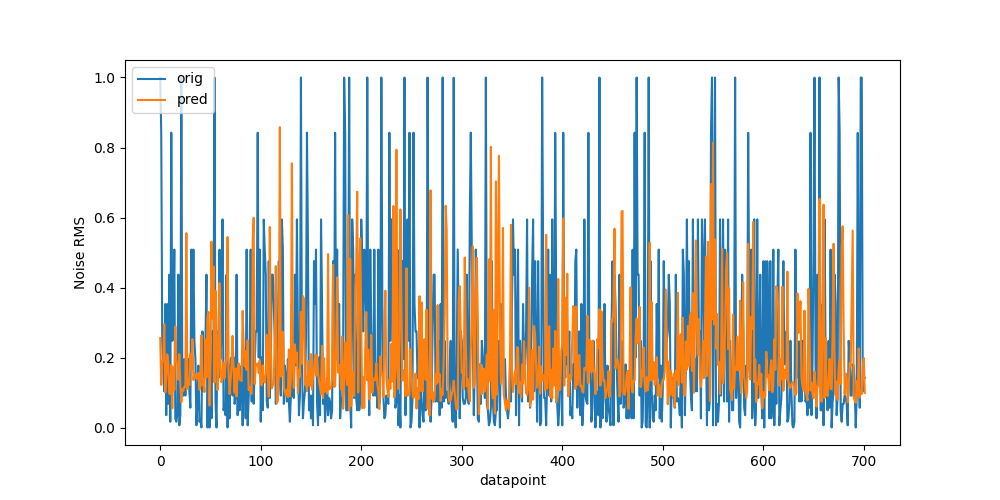
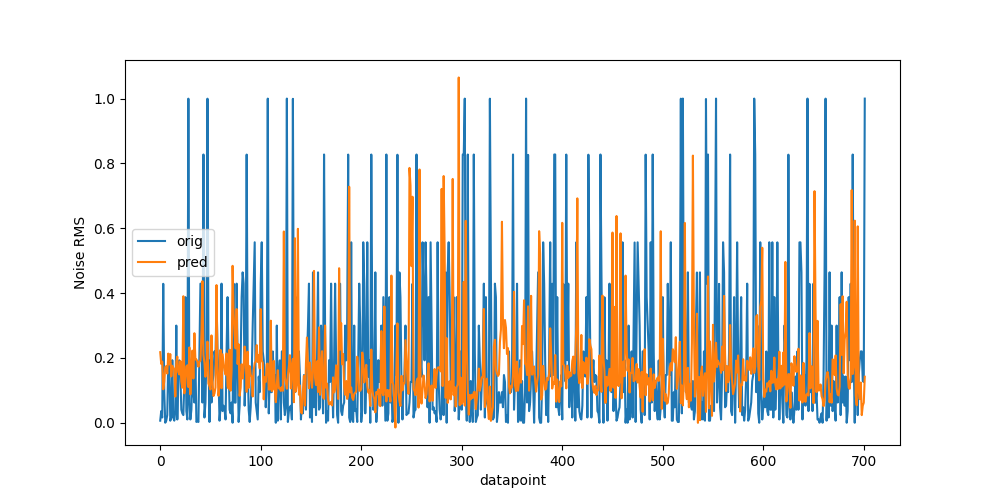
both normalization at both levels

diff --git a/splitting_normalization.py b/splitting_normalization.py
@@ -1,7 +1,107 @@
+# from imports import *
+# import windowing
+# import user_inputs
+
+
+# def data_splitting(x, y, z):
+#     keys = list(x.keys())
+#     random.shuffle(keys)
+#     train_end = int(user_inputs.train_ratio * len(keys))
+#     val_end = train_end + int(user_inputs.val_ratio * len(keys))
+
+#     train_keys = keys[:train_end]
+#     val_keys = keys[train_end:val_end]
+#     test_keys = keys[val_end:]
+
+#     train_x = {key: x[key] for key in train_keys}
+#     val_x = {key: x[key] for key in val_keys}
+#     test_x = {key: x[key] for key in test_keys}
+
+#     train_y = {key: y[key] for key in train_keys}
+#     val_y = {key: y[key] for key in val_keys}
+#     test_y = {key: y[key] for key in test_keys}
+
+#     train_z = {key: z[key] for key in train_keys}
+#     val_z= {key: z[key] for key in val_keys}
+#     test_z= {key: z[key] for key in test_keys}
+
+#     return train_x, val_x, test_x, train_y, val_y, test_y, train_z, val_z, test_z, train_keys, val_keys, test_keys
+# def normalization (train_no_norm, val_no_norm, test_no_norm):
+
+#     all_windows_training = np.concatenate ([np.array(value) for value in train_no_norm.values()])
+#     scaler = StandardScaler()
+#     scaler.fit(all_windows_training.reshape(-1,1))
+#     normalized_training_windows = {key:scaler.transform(np.array(value).reshape(-1,1)).flatten().tolist() for key, value in train_no_norm.items()}
+#     normalized_validation_windows = {key:scaler.transform(np.array(value).reshape(-1,1)).flatten().tolist() for key, value in val_no_norm.items()}
+#     normalized_testing_windows = {key:scaler.transform(np.array(value).reshape(-1,1)).flatten().tolist() for key, value in test_no_norm.items()}
+
+#     return normalized_training_windows, normalized_validation_windows, normalized_testing_windows
+# def FE(data_1, data_2, data_3):
+#     RMS_values_1 = {}
+#     for i, recording in enumerate (data_1.items()):
+#         my_data = recording[1]
+#         RMS_values_1 [i] = np.sqrt(np.mean((np.array(my_data)**2)))
+#     temp_arr = np.hstack(list(RMS_values_1.values())).reshape(-1, 1)
+#     scaler = MinMaxScaler(feature_range=(0, 1))
+#     scaler.fit(temp_arr)
+#     temp_arr_new = scaler.transform(temp_arr)
+#     RMS_values_new_1 = {}
+#     for i in range(0,len(temp_arr_new)):
+#         RMS_values_new_1[i] = np.array(temp_arr_new[i], dtype= np.float32)
+
+#     RMS_values_2 = {}
+#     for i, recording in enumerate (data_2.items()):
+#         my_data = recording[1]
+#         RMS_values_2 [i] = np.sqrt(np.mean((np.array(my_data)**2)))
+#     temp_arr = np.hstack(list(RMS_values_2.values())).reshape(-1, 1)
+#     temp_arr_new =scaler.transform(temp_arr)
+#     RMS_values_new_2 = {}
+#     for i in range(0,len(temp_arr_new)):
+#         RMS_values_new_2[i] = np.array(temp_arr_new[i], dtype= np.float32)
+
+#     RMS_values_3 = {}
+#     for i, recording in enumerate (data_3.items()):
+#         my_data = recording[1]
+#         RMS_values_3 [i] = np.sqrt(np.mean((np.array(my_data)**2)))
+#     temp_arr = np.hstack(list(RMS_values_3.values())).reshape(-1, 1)
+#     temp_arr_new =scaler.transform(temp_arr)
+#     RMS_values_new_3 = {}
+#     for i in range(0,len(temp_arr_new)):
+#         RMS_values_new_3[i] = np.array(temp_arr_new[i], dtype= np.float32)
+
+#     return RMS_values_new_1, RMS_values_new_2, RMS_values_new_3
+# def data_prep_for_ML(channel1, channel2):
+#     keys = sorted(channel1.keys())
+#     data1_tensors = [torch.tensor(channel1[key]) for key in keys]
+#     data2_tensors = [torch.tensor(channel2[key]) for key in keys]
+    
+#     data1_batch = torch.stack(data1_tensors)
+#     data2_batch = torch.stack(data2_tensors)
+
+#     data1_batch = data1_batch.unsqueeze(1)
+#     data2_batch = data2_batch.unsqueeze(1)
+
+#     combined_data = torch.cat((data1_batch,data2_batch), dim=1)
+
+#     return combined_data
+
+# train_x_no_norm, val_x_no_norm, test_x_no_norm, train_y_no_norm, val_y_no_norm, test_y_no_norm, train_o_no_norm, val_o_no_norm, test_o_no_norm, train_keys, val_keys, test_keys = data_splitting (windowing.Data_X, windowing.Data_Y, windowing.Data_O)
+
+# train_x_norm, val_x_norm, test_x_norm = normalization (train_x_no_norm, val_x_no_norm, test_x_no_norm)
+# train_y_norm, val_y_norm, test_y_norm = normalization (train_y_no_norm, val_y_no_norm, test_y_no_norm)
+# train_o_norm, val_o_norm, test_o_norm = normalization (train_o_no_norm, val_o_no_norm, test_o_no_norm)
+
+# train_z_norm, val_z_norm, test_z_norm  = FE(train_o_norm, val_o_norm, test_o_norm )  
+
+# data_train_xy = data_prep_for_ML(train_x_norm, train_y_norm); data_val_xy = data_prep_for_ML(val_x_norm, val_y_norm); data_test_xy = data_prep_for_ML(test_x_norm, test_y_norm)
+
+# train_z_norm_l= list(train_z_norm.values()); val_z_norm_l = list(val_z_norm.values()); test_z_norm_l= list(test_z_norm.values())
+
+
+
 from imports import *
 import windowing
 import user_inputs
-
 
 def data_splitting(x, y, z):
     keys = list(x.keys())
@@ -29,12 +129,18 @@ def data_splitting(x, y, z):
 def normalization (train_no_norm, val_no_norm, test_no_norm):
 
     all_windows_training = np.concatenate ([np.array(value) for value in train_no_norm.values()])
-    scaler = StandardScaler()
-    scaler.fit(all_windows_training.reshape(-1,1))
-    normalized_training_windows = {key:scaler.transform(np.array(value).reshape(-1,1)).flatten().tolist() for key, value in train_no_norm.items()}
-    normalized_validation_windows = {key:scaler.transform(np.array(value).reshape(-1,1)).flatten().tolist() for key, value in val_no_norm.items()}
-    normalized_testing_windows = {key:scaler.transform(np.array(value).reshape(-1,1)).flatten().tolist() for key, value in test_no_norm.items()}
+    scaler_standard = StandardScaler()
+    scaler_standard.fit(all_windows_training.reshape(-1,1))
+    normalized_training_windows = {key:scaler_standard.transform(np.array(value).reshape(-1,1)).flatten().tolist() for key, value in train_no_norm.items()}
+    normalized_validation_windows = {key:scaler_standard.transform(np.array(value).reshape(-1,1)).flatten().tolist() for key, value in val_no_norm.items()}
+    normalized_testing_windows = {key:scaler_standard.transform(np.array(value).reshape(-1,1)).flatten().tolist() for key, value in test_no_norm.items()}
 
+    scaler_minmax = MinMaxScaler()
+    scaler_minmax.fit(all_windows_training.reshape(-1,1))
+    normalized_training_windows = {key:scaler_minmax.transform(np.array(value).reshape(-1,1)).flatten().tolist() for key, value in normalized_training_windows.items()}
+    normalized_validation_windows = {key:scaler_minmax.transform(np.array(value).reshape(-1,1)).flatten().tolist() for key, value in normalized_validation_windows.items()}
+    normalized_testing_windows = {key:scaler_minmax.transform(np.array(value).reshape(-1,1)).flatten().tolist() for key, value in normalized_testing_windows.items()}
+    
     return normalized_training_windows, normalized_validation_windows, normalized_testing_windows
 def FE(data_1, data_2, data_3):
     RMS_values_1 = {}
@@ -42,9 +148,12 @@ def FE(data_1, data_2, data_3):
         my_data = recording[1]
         RMS_values_1 [i] = np.sqrt(np.mean((np.array(my_data)**2)))
     temp_arr = np.hstack(list(RMS_values_1.values())).reshape(-1, 1)
-    scaler = MinMaxScaler(feature_range=(0, 1))
-    scaler.fit(temp_arr)
-    temp_arr_new = scaler.transform(temp_arr)
+    scaler_standard = StandardScaler()
+    scaler_standard.fit(temp_arr)
+    temp_arr_new = scaler_standard.transform(temp_arr)
+    scaler_minmax = MinMaxScaler()
+    scaler_minmax.fit(temp_arr_new)
+    temp_arr_new = scaler_minmax.transform(temp_arr_new)
     RMS_values_new_1 = {}
     for i in range(0,len(temp_arr_new)):
         RMS_values_new_1[i] = np.array(temp_arr_new[i], dtype= np.float32)
@@ -54,7 +163,8 @@ def FE(data_1, data_2, data_3):
         my_data = recording[1]
         RMS_values_2 [i] = np.sqrt(np.mean((np.array(my_data)**2)))
     temp_arr = np.hstack(list(RMS_values_2.values())).reshape(-1, 1)
-    temp_arr_new =scaler.transform(temp_arr)
+    temp_arr_new =scaler_standard.transform(temp_arr)
+    temp_arr_new = scaler_minmax.transform(temp_arr_new)
     RMS_values_new_2 = {}
     for i in range(0,len(temp_arr_new)):
         RMS_values_new_2[i] = np.array(temp_arr_new[i], dtype= np.float32)
@@ -64,10 +174,18 @@ def FE(data_1, data_2, data_3):
         my_data = recording[1]
         RMS_values_3 [i] = np.sqrt(np.mean((np.array(my_data)**2)))
     temp_arr = np.hstack(list(RMS_values_3.values())).reshape(-1, 1)
-    temp_arr_new =scaler.transform(temp_arr)
+    temp_arr_new =scaler_standard.transform(temp_arr)
+    temp_arr_new = scaler_minmax.transform(temp_arr_new)
     RMS_values_new_3 = {}
     for i in range(0,len(temp_arr_new)):
         RMS_values_new_3[i] = np.array(temp_arr_new[i], dtype= np.float32)
+
+
+
+
+
+
+
 
     return RMS_values_new_1, RMS_values_new_2, RMS_values_new_3
 def data_prep_for_ML(channel1, channel2):
@@ -96,5 +214,6 @@ train_z_norm, val_z_norm, test_z_norm  = FE(train_o_norm, val_o_norm, test_o_nor
 data_train_xy = data_prep_for_ML(train_x_norm, train_y_norm); data_val_xy = data_prep_for_ML(val_x_norm, val_y_norm); data_test_xy = data_prep_for_ML(test_x_norm, test_y_norm)
 
 train_z_norm_l= list(train_z_norm.values()); val_z_norm_l = list(val_z_norm.values()); test_z_norm_l= list(test_z_norm.values())
+
 
 
